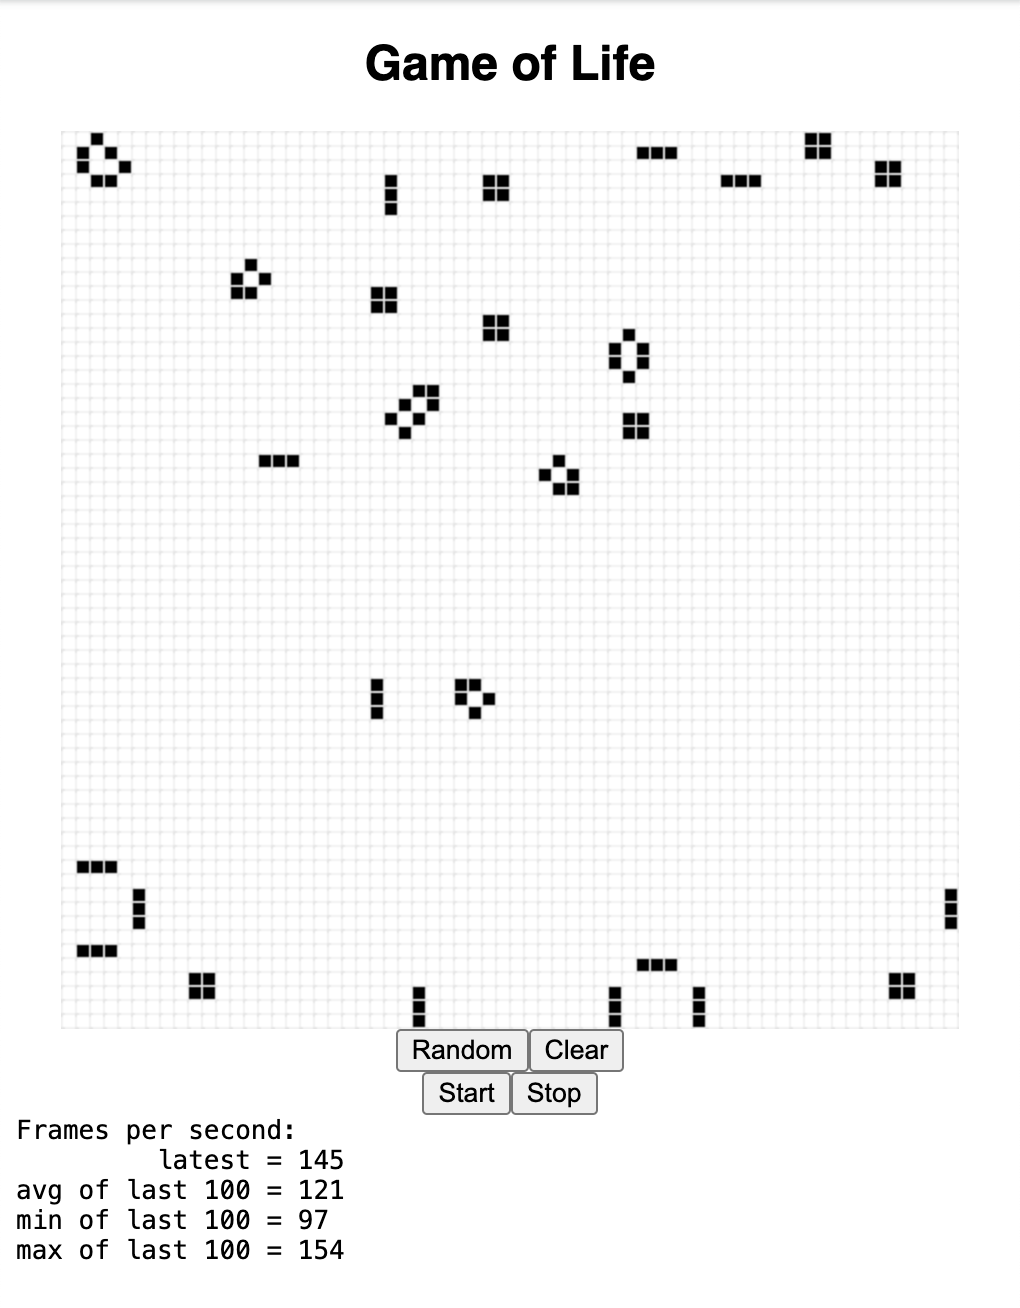
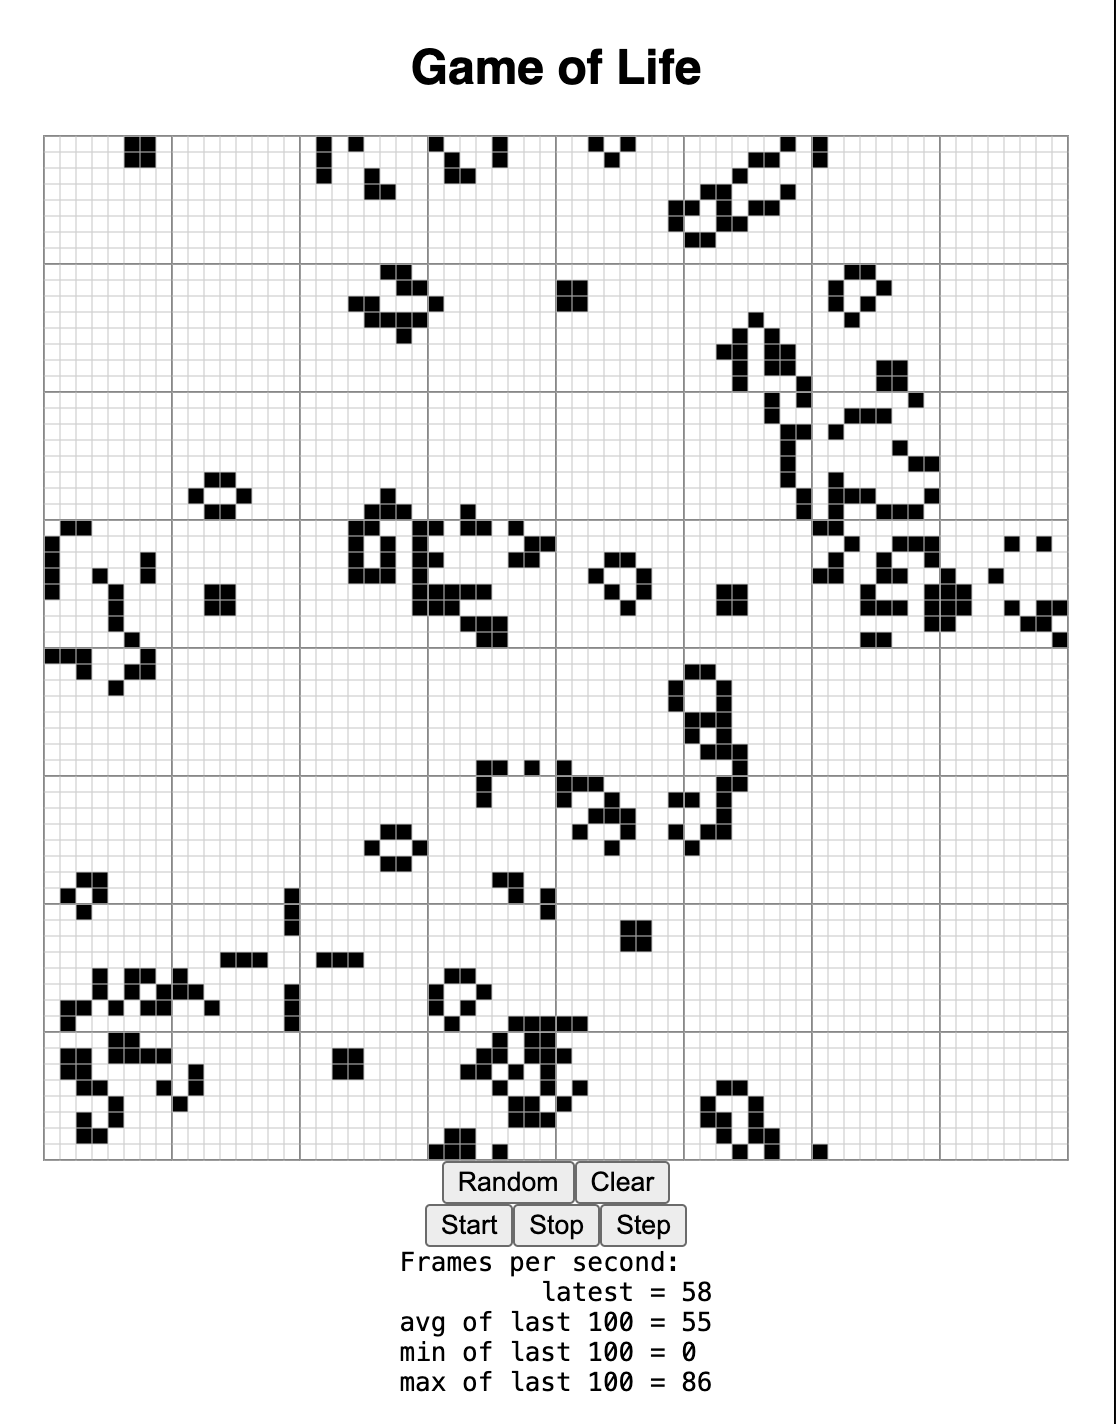
update web pic

diff --git a/README.md b/README.md
@@ -15,7 +15,7 @@ With the Dioxus framework the code is 100% Rust.
 <img src="game_of_life_desktop.png" alt="Game of Life" class="center" width="530" height="741">
 
 ## Browser
-<img src="game_of_life.png" alt="Game of Life" class="center" width="480" height="616">
+<img src="game_of_life.png" alt="Game of Life" class="center" width="558" height="712">
 
 
 ## Demonstrates
